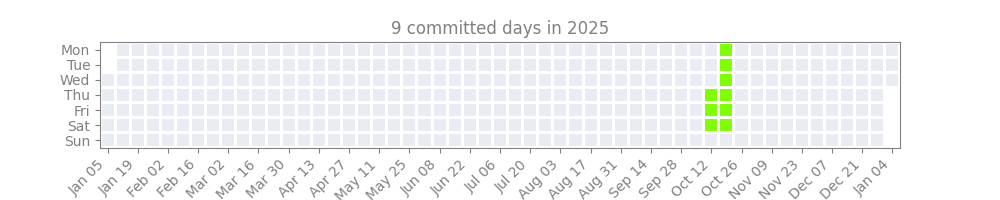
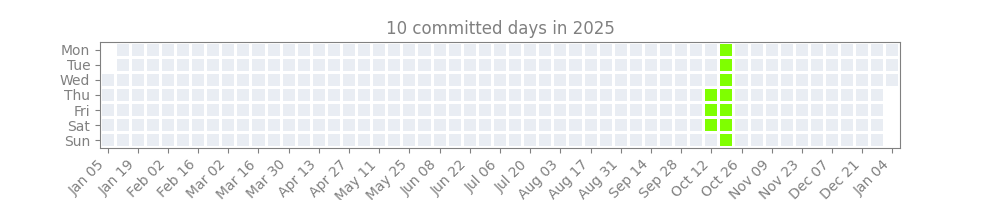
minor

Changed region(s): [[0.372, 0.09, 0.62, 0.18], [0.713, 0.66, 0.744, 0.75]]

diff --git a/daily_challenge/__init__.py b/daily_challenge/__init__.py
@@ -93,7 +93,7 @@ def draw_yearly_heatmap(year, commit_dates=None, output_file=None):
     ax = plt.gca()
 
     # Define colors for the squares
-    # colors = {1: (245/255, 245/255, 245/255, 0.65), 2: (127/255, 255/255, 0, 1), -1: 'none'}
+    # colors = {1: (245/255, 245/255, 245/255, 0.65), 2: (127/255, 255/255, 0, 1), -1: 'none'}  # Previous colors: Whitesmoke with transparency
     colors = {1: (94/255, 123/255, 166/255, 0.1386), 2: (127/255, 255/255, 0, 1), -1: 'none'}
 
     # Define the gap size
@@ -187,6 +187,9 @@ if __name__ == "__main__":
     # so we need to add today's date too
     # Where are the images? The get_commit_dates function changes the current working directory to the repo_path provided, 
     # so the images will be in the repo_path
+
+    # Was using whitesmoke with transparency for days without commits, but it looks bad on light or white backgrounds.
+    # I gave AI screen shot of github profile heatmap on both light and dark mode. It chose colors that work well on both.
 
     main()
 
